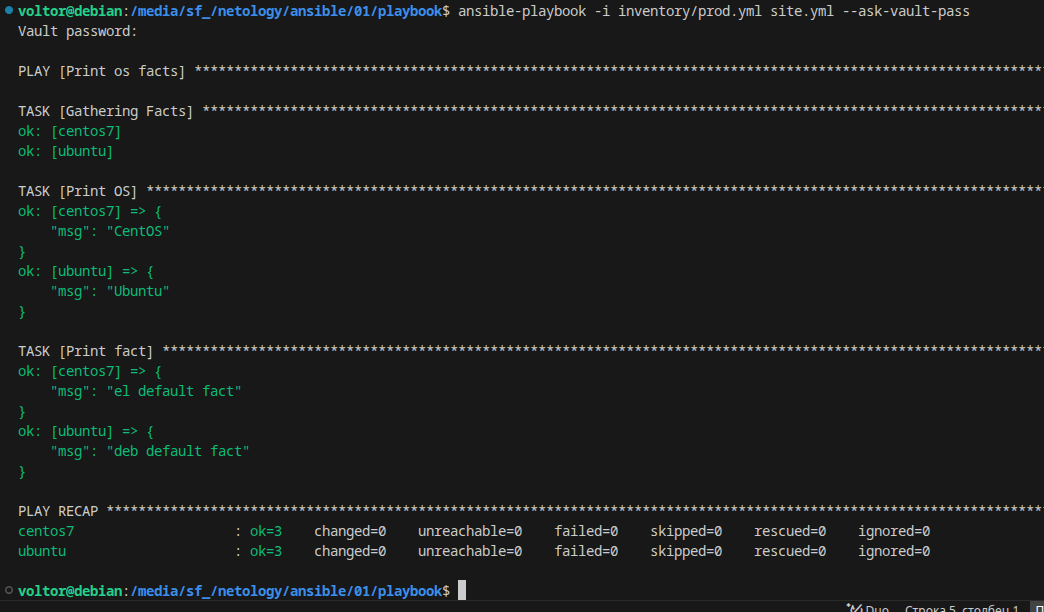
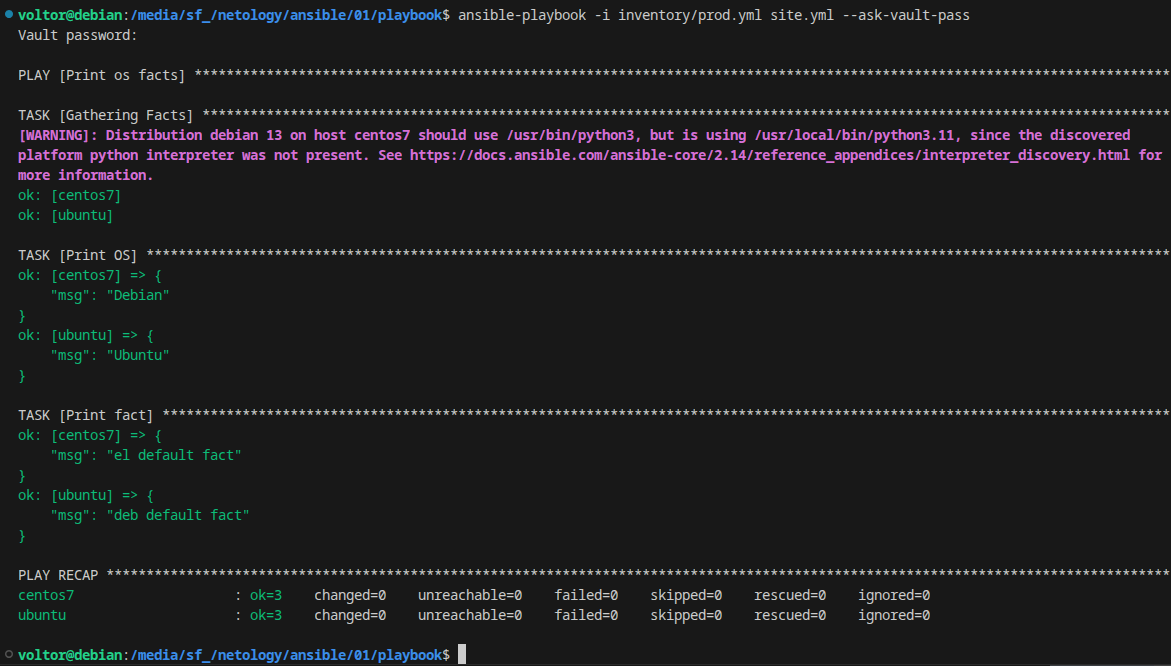
MNT-08-01: Ansible introduction

diff --git a/ansible/01/README.md b/ansible/01/README.md
@@ -1,8 +1,38 @@
-1. ![alt text](1.png)  
-2. ![alt text](2.png)  
-3. ![alt text](3.png)  
-4. ![alt text](4.png)  
-6. ![alt text](6.png)  
-7. ![alt text](7.png)  
-8. ![alt text](8.png)  
-11. ![alt text](11.png)
+# Домашнее задание к занятию 1 «Введение в Ansible»
+
+## Подготовка
+
+- Ansible Core 2.14.18.
+- Использован исходный playbook Netology из `08-ansible-01-base`, ветка `MNT-video`.
+- Для проверки `prod.yml` использованы Docker-контейнеры с именами `centos7` и `ubuntu`.
+
+## Основная часть
+
+1. До изменения переменных выполнен запуск `ansible-playbook -i inventory/test.yml site.yml`. Для `localhost` значение `some_fact` было `12`. Результат: [скриншот 1](1.png).
+2. Значение в `playbook/group_vars/all/examp.yml` изменено на `all default fact`. Повторный запуск тестового inventory показал новое значение: [скриншот 2](2.png).
+3. Для дальнейших проверок использовано Docker-окружение с контейнерами `centos7` и `ubuntu`.
+4. До изменения групповых переменных запуск `prod.yml` показал `some_fact = el` для `centos7` и `some_fact = deb` для `ubuntu`: [скриншот 4](4.png).
+5. В `playbook/group_vars/el/examp.yml` задано `el default fact`, в `playbook/group_vars/deb/examp.yml` — `deb default fact`.
+6. Повторный запуск `prod.yml` подтвердил значения для обеих групп: [скриншот 6](6.png).
+7. Файлы переменных групп `deb` и `el` зашифрованы Ansible Vault паролем `netology`.
+8. Playbook успешно запущен с запросом Vault-пароля; значения групп расшифрованы и применены: [скриншот 8](8.png).
+9. Для выполнения задач на управляющем узле выбран connection plugin `ansible.builtin.local`, проверенный командой `ansible-doc -t connection local`.
+10. В `playbook/inventory/prod.yml` добавлена группа `local` с `localhost` и `ansible_connection: local`.
+11. Итоговый запуск с запросом Vault-пароля подтвердил значения на всех трёх хостах: `centos7` — `el default fact`, `ubuntu` — `deb default fact`, `localhost` — `all default fact`. `failed=0` для каждого: [скриншот 11](11.png).
+12. Финальный коммит задания помечен отдельным тегом `08-ansible-01-base`. Публикация выполняется вместе с заданиями 02 и 03.
+13. Скриншоты запусков команд приложены выше.
+
+## Примечание по Docker-окружению
+
+В запуске `prod.yml` хост `centos7` сообщил дистрибутив `Debian`, а Ansible вывел предупреждение о выборе Python-интерпретатора. Имя контейнера `centos7` само по себе не гарантирует, что внутри работает CentOS. При этом проверка групповых переменных и Ansible Vault завершилась успешно.
+
+## Запуск
+
+Из каталога `playbook/`:
+
+```bash
+ansible-playbook -i inventory/test.yml site.yml
+ansible-playbook -i inventory/prod.yml site.yml --ask-vault-pass
+```
+
+Для второго запуска ввести Vault-пароль `netology`.
